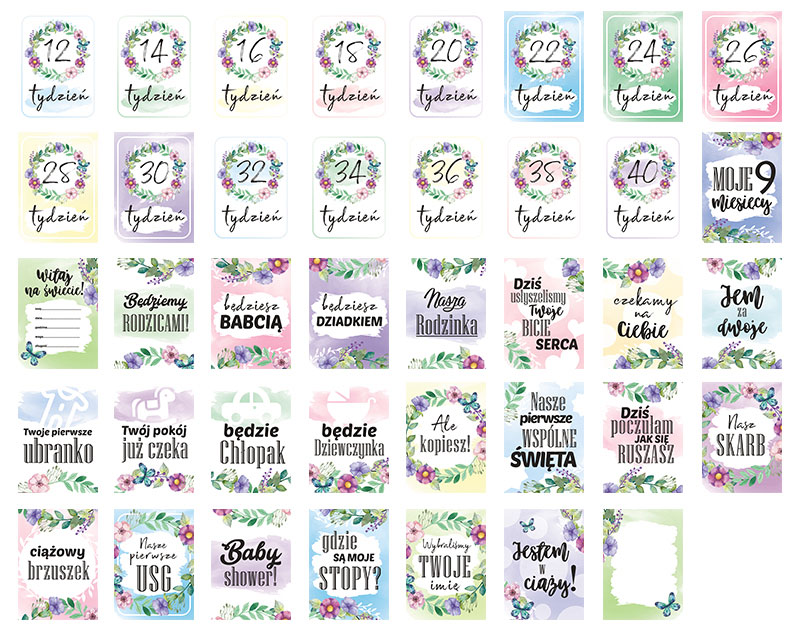
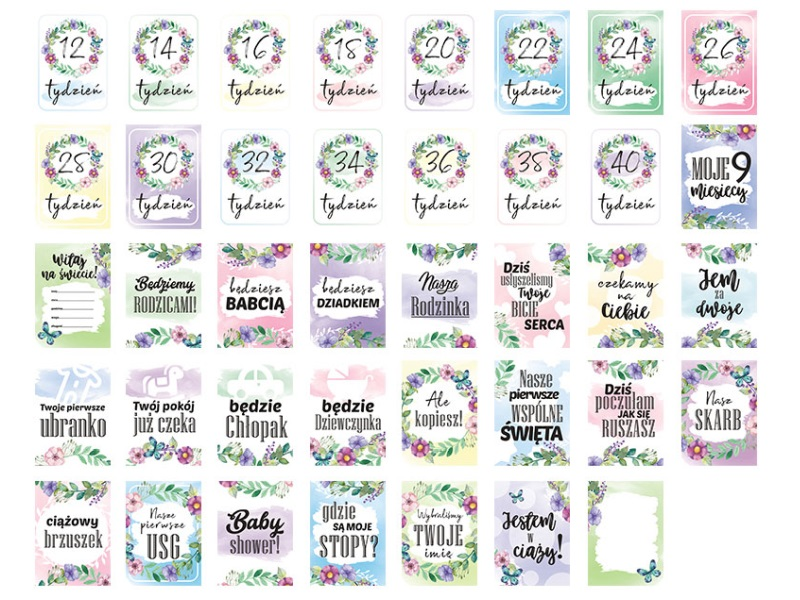
podwojne img

diff --git a/_layouts/karty.html b/_layouts/karty.html
@@ -12,7 +12,7 @@
         <img src="/img/{{ site.produkty.karty[page.configKey].img }}-wszystkie.jpg" width="100%" class="img-thumbnail"/>
       </div>
       <div class="col-md-4">
-        <img src="/img/{{ site.produkty.karty[page.configKey].img }}-glowne.jpg" width="100%" class="img-thumbnail"/>
+        <img src="/img/{{ site.produkty.karty[page.configKey].img }}-podwojne.jpg" width="100%" class="img-thumbnail"/>
       </div>
     </div>
   </div>
